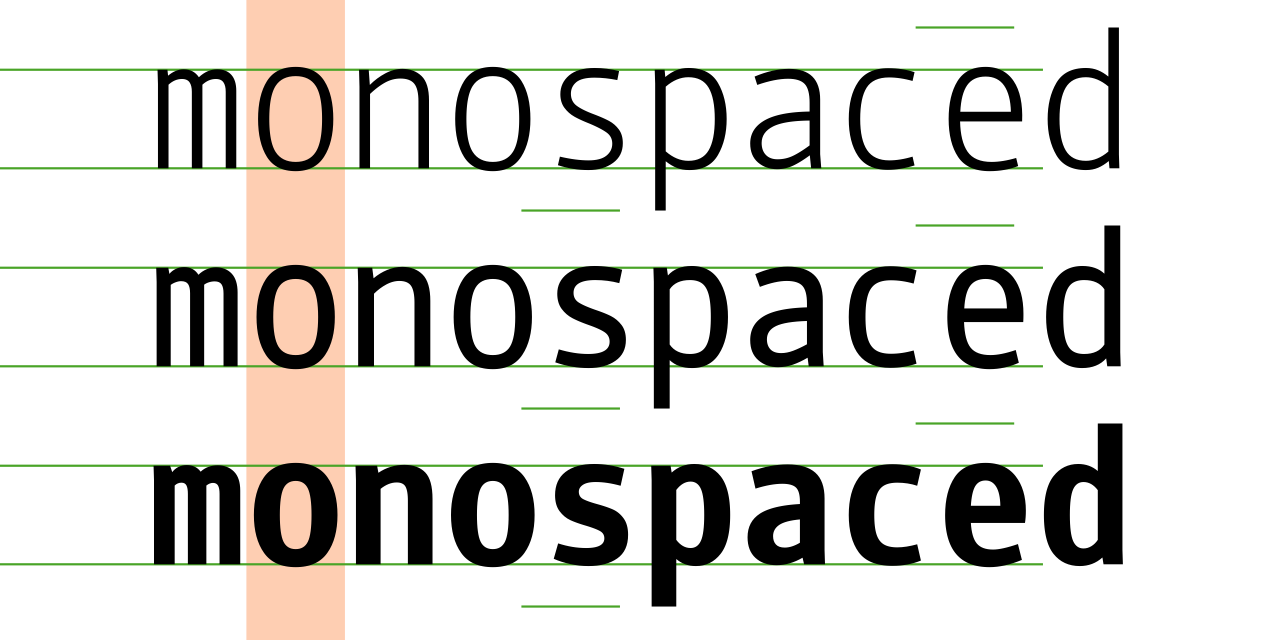
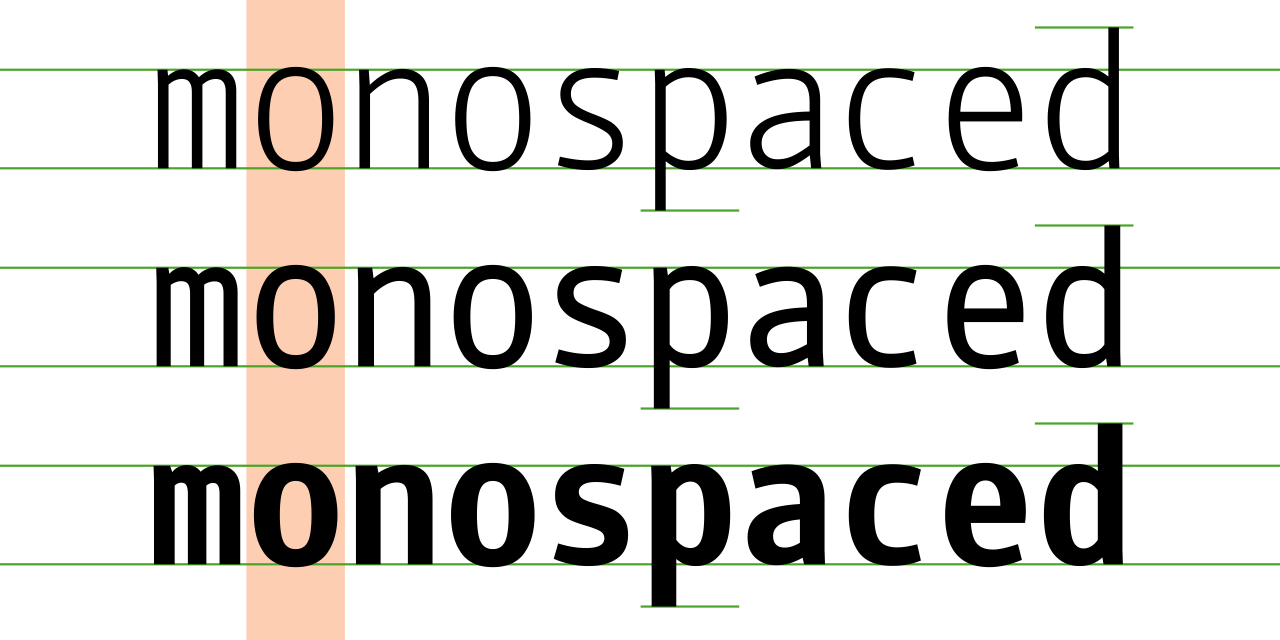
Fix images

diff --git a/scripts/BuildWebSVGs.py b/scripts/BuildWebSVGs.py
@@ -36,13 +36,14 @@ def metrics_color():
 def highlight_color():
     fill(253/255, 95/255, 0, 0.3)
 
-def mono_metrics():
+def mono_metrics(text_x, s):
     save()
     metrics_color()
     y = 0
-    line((0, y), (width() / s, y))
+    xmax = width() / s
+    line((0, y), (xmax, y))
     y = 448
-    line((0, y), (width() / s, y))
+    line((0, y), (xmax, y))
     y = 640
     line((text_x + 9 * 448, y), (text_x + 10 * 448, y))
     y = -192
@@ -78,17 +79,17 @@ def monospaced():
     
     # The text lines
     translate(0, -line_height * 0.85)
-    mono_metrics()
+    mono_metrics(text_x, s)
     font("Sudo Thin")
     text_path("monospaced", (text_x, 0), "../sudo/Sudo-Thin.ttf")
     
     translate(0, -line_height)
-    mono_metrics()
+    mono_metrics(text_x, s)
     font("Sudo Regular")
     text_path("monospaced", (text_x, 0), "../sudo/Sudo-Regular.ttf")
     
     translate(0, -line_height)
-    mono_metrics()
+    mono_metrics(text_x, s)
     font("Sudo Bold")
     text_path("monospaced", (text_x, 0), "../sudo/Sudo-Bold.ttf")
 
@@ -182,17 +183,18 @@ def github():
     
     # The text lines
     translate(0, -line_height * 0.85)
-    mono_metrics()
+    mono_metrics(text_x, s)
     font("Sudo Thin")
+    # translate(-448, 0)
     text_path("monospaced", (text_x, 0), "../sudo/Sudo-Thin.ttf")
     
     translate(0, -line_height)
-    mono_metrics()
+    mono_metrics(text_x, s)
     font("Sudo Regular")
     text_path("monospaced", (text_x, 0), "../sudo/Sudo-Regular.ttf")
     
     translate(0, -line_height)
-    mono_metrics()
+    mono_metrics(text_x, s)
     font("Sudo Bold")
     text_path("monospaced", (text_x, 0), "../sudo/Sudo-Bold.ttf")
 
